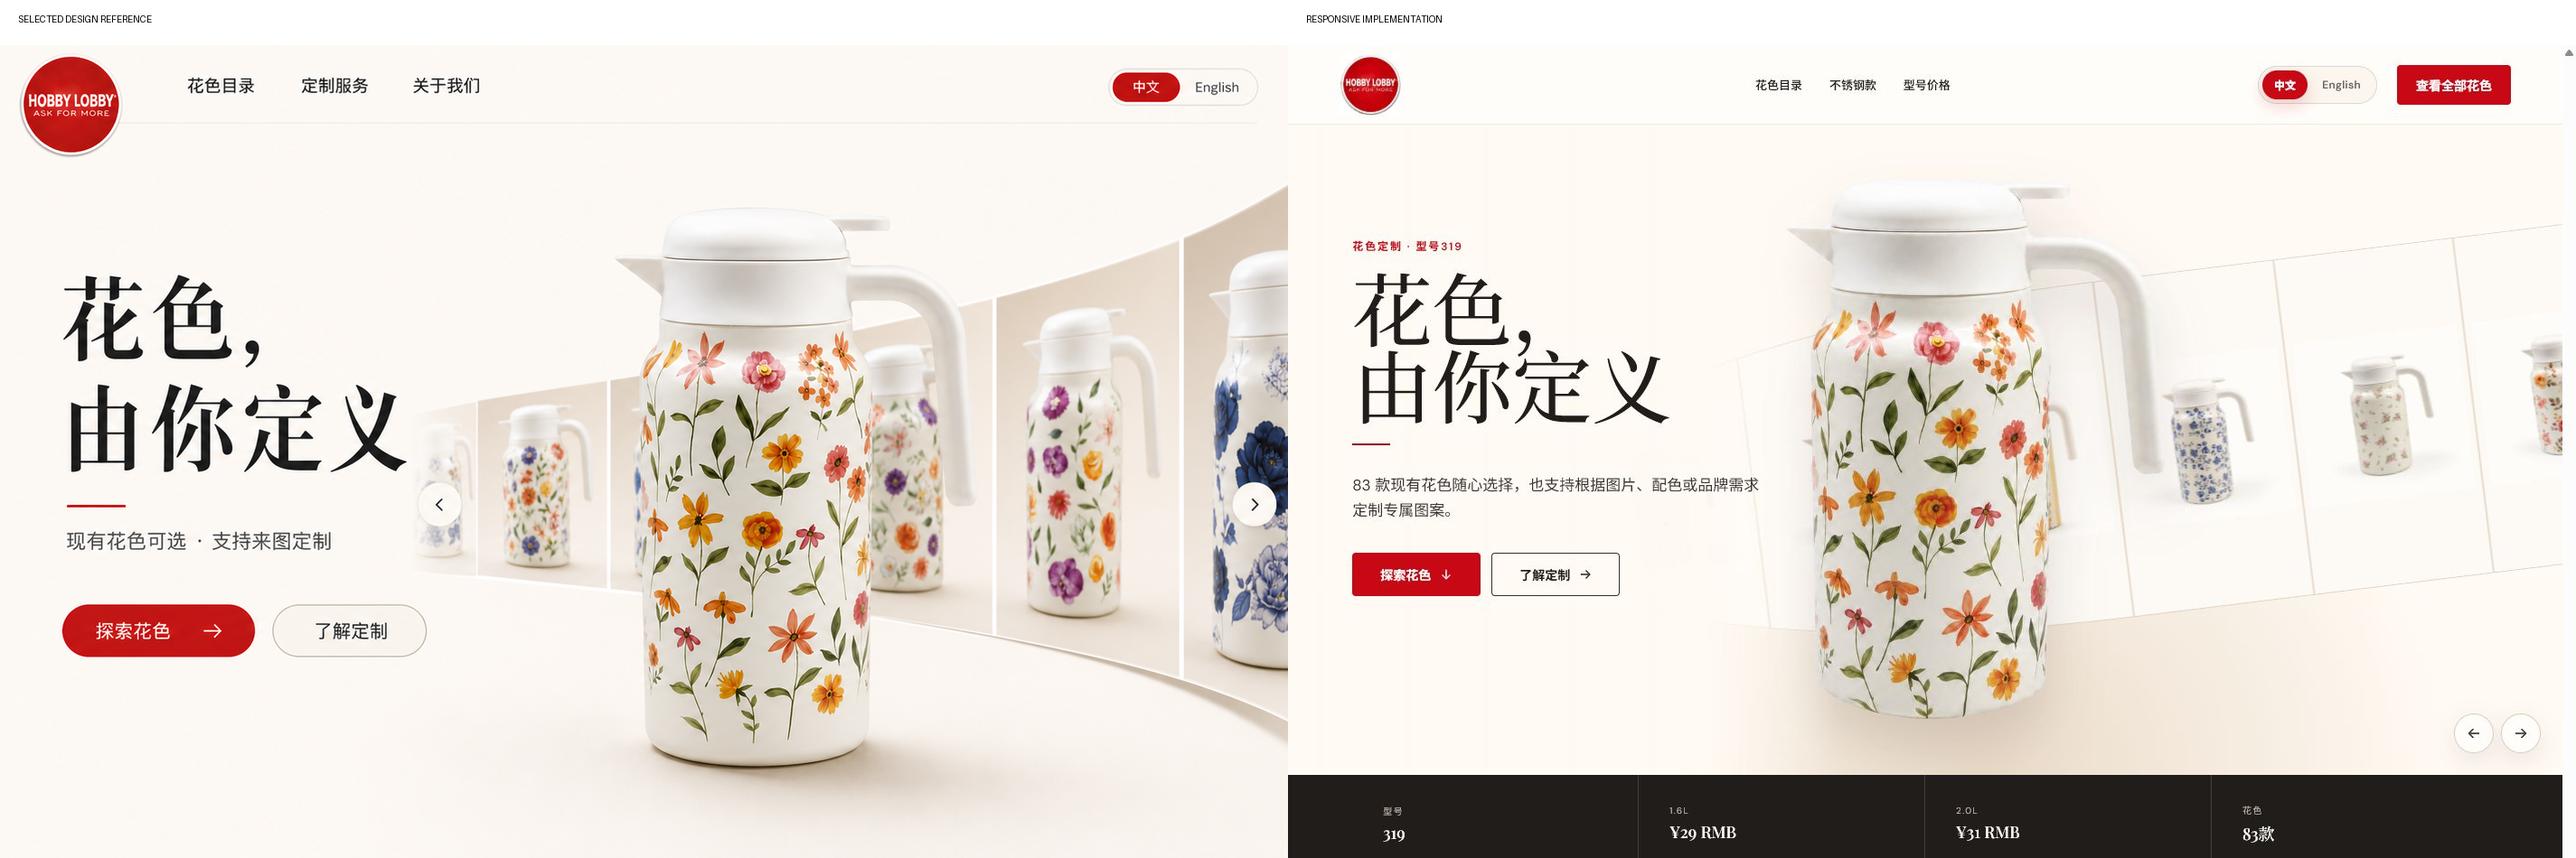
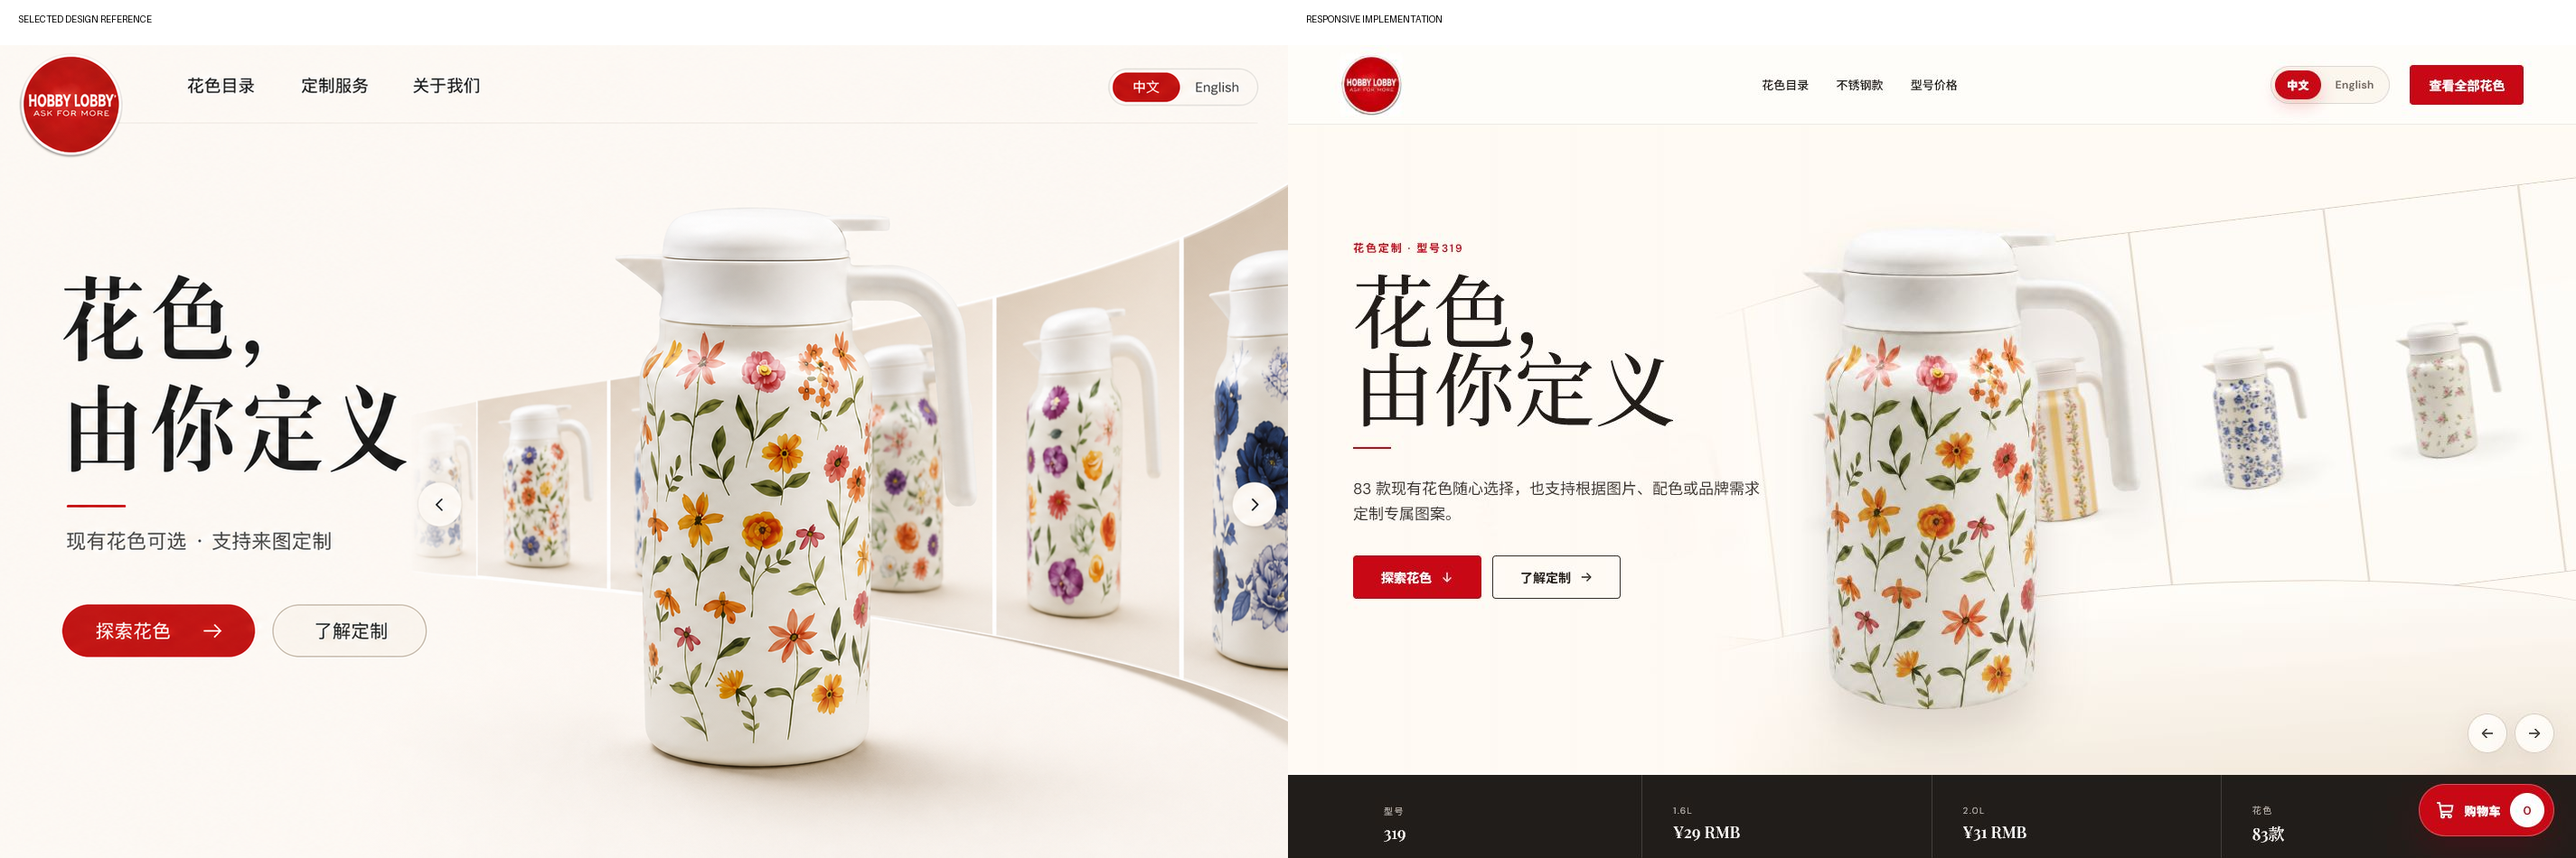
Refine hero scale and curved product runway

diff --git a/src/styles.css b/src/styles.css
@@ -46,14 +46,15 @@ h2 { font-size:clamp(42px,4vw,62px); line-height:1.04; }
 .hero-notes span { display:flex; align-items:center; gap:10px; }
 .hero-notes svg { color:var(--red); font-size:18px; }
 .hero-media { position:absolute; z-index:1; inset:0; min-width:0; overflow:hidden; isolation:isolate; background:radial-gradient(ellipse at 55% 100%,#eadbc9 0%,#fffaf3 46%,#fffaf3 100%); }
-.hero-runway { position:absolute; z-index:1; left:17%; right:-12%; top:24%; height:52%; overflow-x:auto; overflow-y:hidden; border:1px solid #dfd0bf; border-radius:50% 0 0 50%; background:#eee2d3; transform:rotate(-7deg); scrollbar-width:none; scroll-behavior:smooth; }
+.hero-media::after { content:""; position:absolute; z-index:2; left:12%; right:-12%; bottom:-18%; height:46%; border-top:1px solid #dfd0bf; border-radius:52% 48% 0 0; background:linear-gradient(180deg,rgba(255,253,249,.98),#eee1d0); transform:rotate(-5deg); pointer-events:none; }
+.hero-runway { position:absolute; z-index:1; left:14%; right:-6%; top:18%; height:60%; overflow-x:auto; overflow-y:hidden; border:1px solid #d9c9b6; border-radius:52% 0 0 50%; background:#eaddcb; transform:rotate(-7deg); scrollbar-width:none; scroll-behavior:smooth; }
 .hero-runway::-webkit-scrollbar { display:none; }
 .hero-runway-track { width:max-content; height:100%; display:flex; align-items:stretch; gap:1px; animation:hero-runway-scroll 38s linear infinite; will-change:transform; }
 .hero-runway:hover .hero-runway-track,.hero-runway:active .hero-runway-track,.hero-runway:focus-within .hero-runway-track { animation-play-state:paused; }
-.hero-runway-item { width:clamp(160px,14vw,230px); height:100%; flex:none; margin:0; padding:10px 8px; display:grid; place-items:center; border-right:1px solid #dfd0bf; background:rgba(255,253,250,.9); }
+.hero-runway-item { width:clamp(176px,15vw,252px); height:100%; flex:none; margin:0; padding:5px 4px; display:grid; place-items:center; border-right:1px solid #d9c9b6; background:rgba(255,253,250,.94); }
 .hero-runway-item img { width:100%; height:100%; display:block; object-fit:contain; mix-blend-mode:multiply; }
-.hero-featured-product { position:absolute; z-index:3; left:30%; bottom:-5%; width:43%; height:108%; display:grid; place-items:end center; pointer-events:none; }
-.hero-featured-product img { width:100%; height:100%; display:block; object-fit:contain; object-position:center bottom; transform:scale(1.35); transform-origin:center bottom; filter:drop-shadow(0 26px 22px rgba(66,45,33,.16)); }
+.hero-featured-product { position:absolute; z-index:3; left:50%; bottom:-2%; width:min(43vw,720px); height:104%; display:grid; place-items:end center; transform:translateX(-48%); pointer-events:none; }
+.hero-featured-product img { width:100%; height:100%; display:block; object-fit:contain; object-position:center bottom; transform:scale(1.18); transform-origin:center bottom; filter:drop-shadow(0 26px 22px rgba(66,45,33,.16)); }
 .hero-runway-controls { position:absolute; z-index:4; right:24px; bottom:24px; display:flex; gap:8px; }
 .hero-runway-controls button { width:44px; height:44px; border:1px solid #dbcdbd; border-radius:50%; display:grid; place-items:center; background:rgba(255,253,250,.92); color:var(--ink); box-shadow:0 10px 28px rgba(63,41,28,.1); cursor:pointer; }
 .hero-runway-controls button:hover { color:var(--red); border-color:rgba(201,8,22,.35); }
@@ -214,7 +215,7 @@ footer a { display:inline-flex; align-items:center; gap:7px; text-decoration:non
   .hero-media { position:relative; inset:auto; height:430px; }
   .hero-runway { left:-10%; right:-38%; top:22%; height:58%; border-radius:46% 0 0 46%; }
   .hero-runway-item { width:164px; padding:9px 7px; }
-  .hero-featured-product { left:7%; width:86%; height:103%; }
+  .hero-featured-product { left:7%; width:86%; height:103%; transform:none; }
   .hero-featured-product img { transform:scale(1.08); }
   .hero-runway-controls { right:14px; bottom:14px; }
 }

diff --git a/design-qa.md b/design-qa.md
@@ -27,7 +27,8 @@
 2. The featured product source had a white square background. Created a background-extracted product asset, removed the chroma key to alpha, and preserved the complete lid, spout, handle, body, pattern, and base.
 3. The original carousel filter could include promotional set images. Limited the hero runway to the botanical-floral category so the cover consistently shows individual real products.
 4. Replaced the old hero preload with the new featured product asset and updated the page description from 58 to 83 patterns plus customization.
-5. Reworked the desktop hero from a hard two-column split into one continuous ivory canvas so the curved runway passes behind the headline area and the foreground product, matching the selected reference composition.
+5. Reworked the desktop hero from a hard two-column split into one continuous ivory canvas. The enlarged curved runway now passes behind the headline and foreground product, while a separate curved floor layer creates the same gallery-stage depth as the selected reference.
+6. Capped the foreground product by hero height and a 720 px maximum width so wide desktop screens cannot enlarge it beyond the frame or crop the lid and base.
 
 ## Known non-blocking repository issue
 
